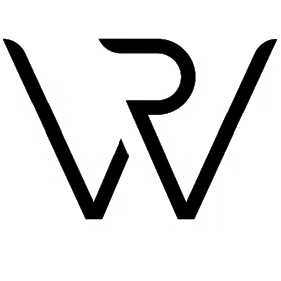
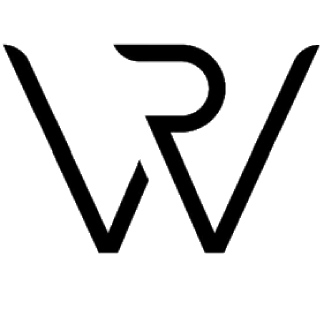
header finalizado e imagens acertadas

diff --git a/src/components/header.js b/src/components/header.js
@@ -1,5 +1,6 @@
 import PropTypes from 'prop-types'
 import React from 'react';
+import logo from "../image/RW.png"
 
 import {
   Collapse,
@@ -36,10 +37,10 @@ class Header extends React.Component {
   render(){
     return (
       <div>
-        
-        <Navbar fixed= "top" light expand="md">
+        <Navbar fixed= "top" light expand="sm"> 
           <div className= "container">
-          <NavbarBrand href="/">{this.props.siteTitle}</NavbarBrand> {/* titulo do site */}
+          <NavbarBrand href="/"><img src={logo} width="45" height="45" class="d-inline-block align-center" alt="Logo"/>
+            </NavbarBrand> {/* titulo do site */}
           <NavbarToggler onClick={this.toggle} />
           <Collapse isOpen={this.state.isOpen} navbar>
             <Nav className="ml-auto" navbar>
@@ -69,11 +70,11 @@ class Header extends React.Component {
                   <DropdownItem divider />
                 </DropdownMenu>
               </UncontrolledDropdown>
-              <Form inline center>
+                <Form inline center>
                   <Input type="text" placeholder="Search" className="mr-sm-2" onChange={this.changeSearchText} value={this.state.searchtext} onClick={this.findBooks}/>
                   <Button color="danger" variant="outline-primary">Search</Button>
-              </Form>
-            </Nav>
+                </Form>
+                </Nav>
           </Collapse>
           </div>
         </Navbar>

diff --git a/src/styles/_base.scss b/src/styles/_base.scss
@@ -1,12 +1,17 @@
 .container#content {
   margin-top: 8rem; //margem do container principal
 }
+img{
+  margin-bottom: 0px; //variável entre o logo e navbar
+}
 body {
   background-color: #F7F7F7;
 }
 a {
   color: #0056b3;
-  
+  margin: 0px;
+  box-shadow: 0px;
+
   &:hover {
     color: #007bff;
     text-decoration: none;
@@ -30,6 +35,8 @@ h1 {
 .navbar-light .navbar-brand {
   color: #F4F4F4;
   font-weight: bold; /* Negrito */
+  padding-bottom: 0px ;
+
   &:hover {
     color: white;
     

diff --git a/gatsby-config.js b/gatsby-config.js
@@ -67,7 +67,7 @@ module.exports = {
         background_color: `#606060`,
         theme_color: `#909090`,
         display: `minimal-ui`,
-          icon: `content/assets/RW.png`,
+          icon: `./src/image/RW.png`,
       },
     },
     //-------------------- Title, description e keywords ---------------------
